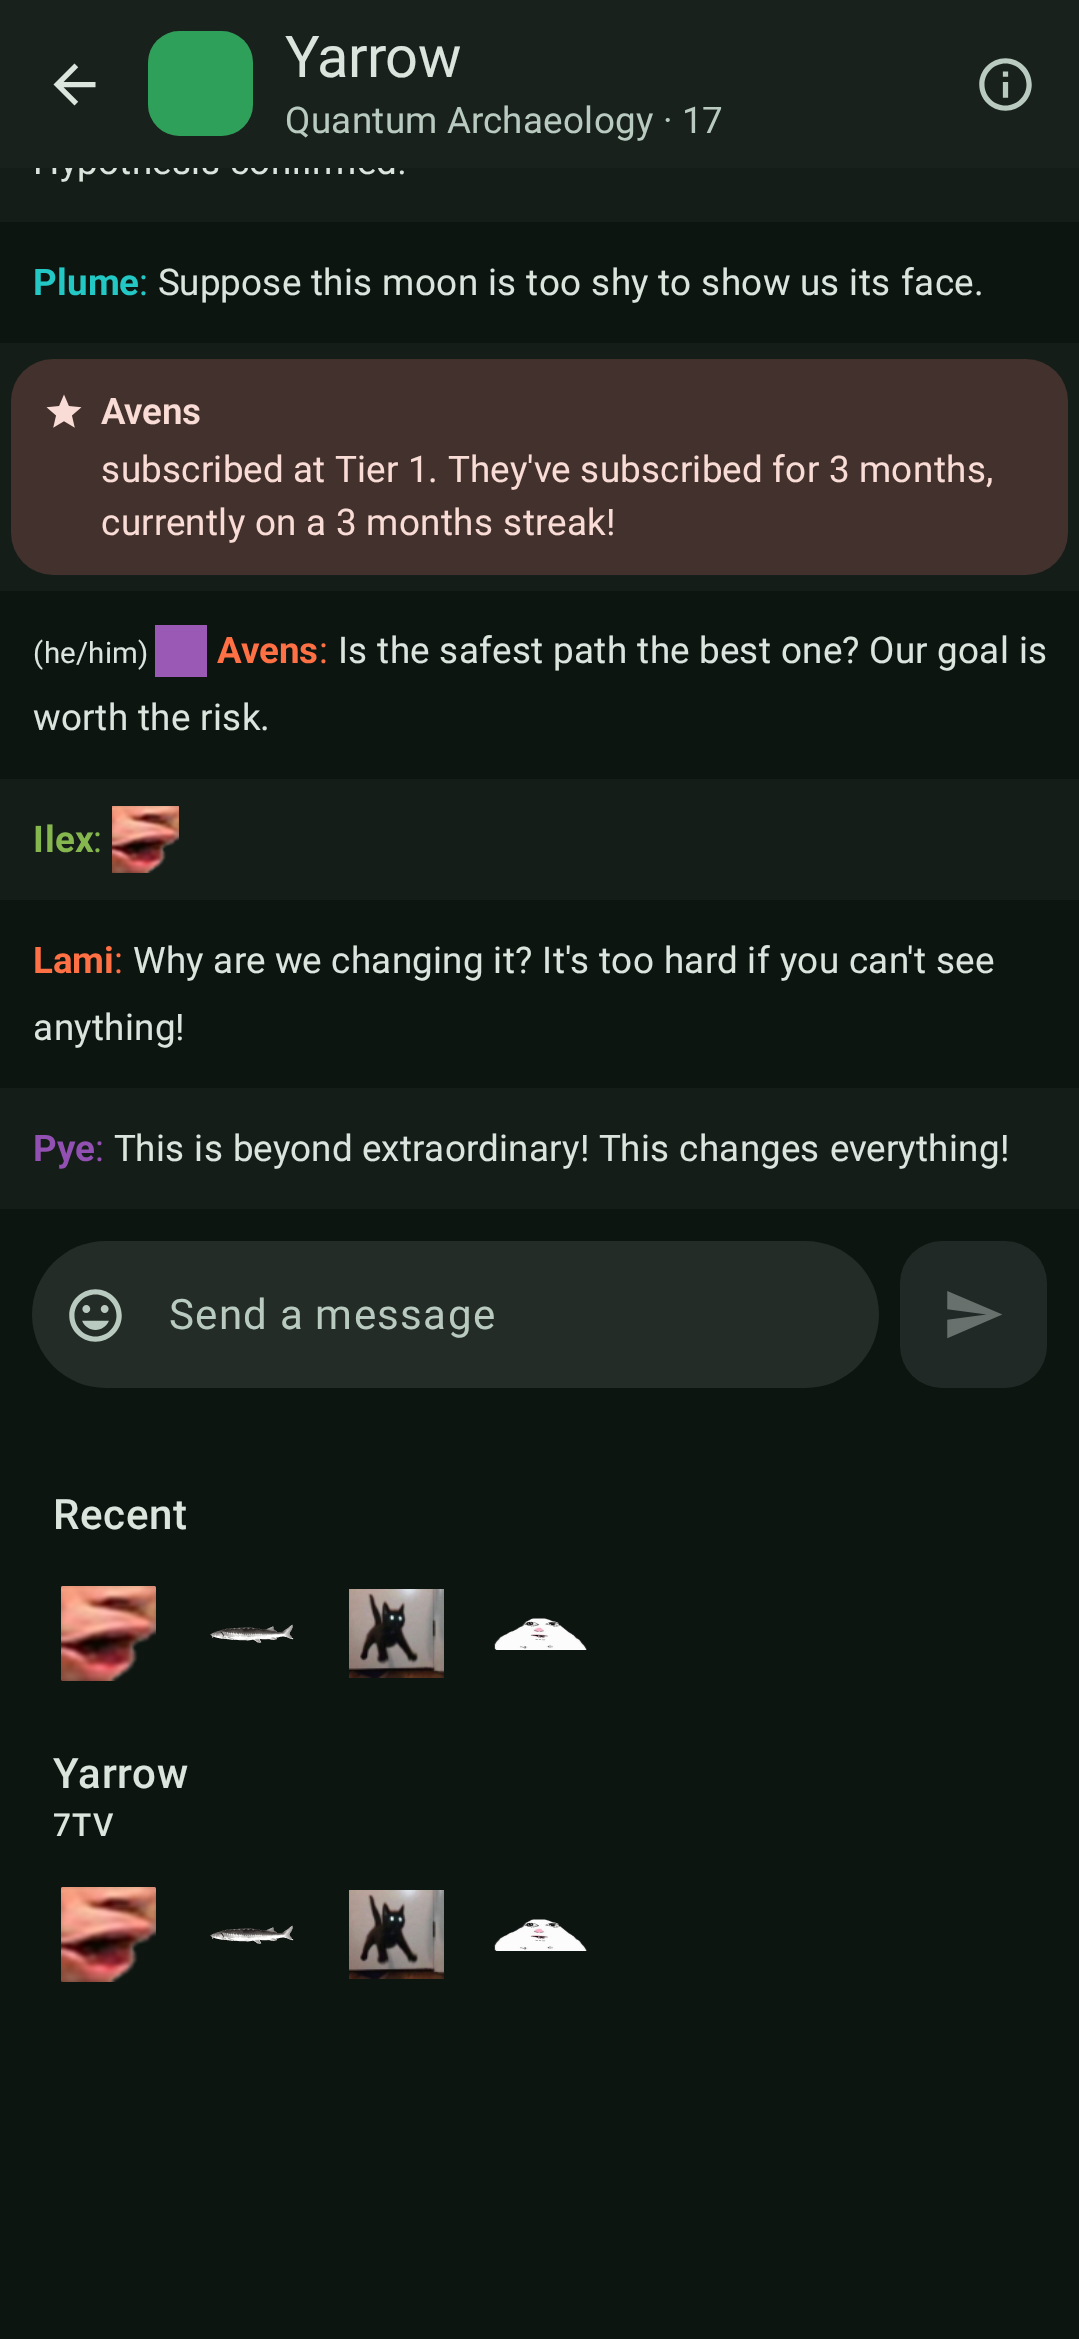
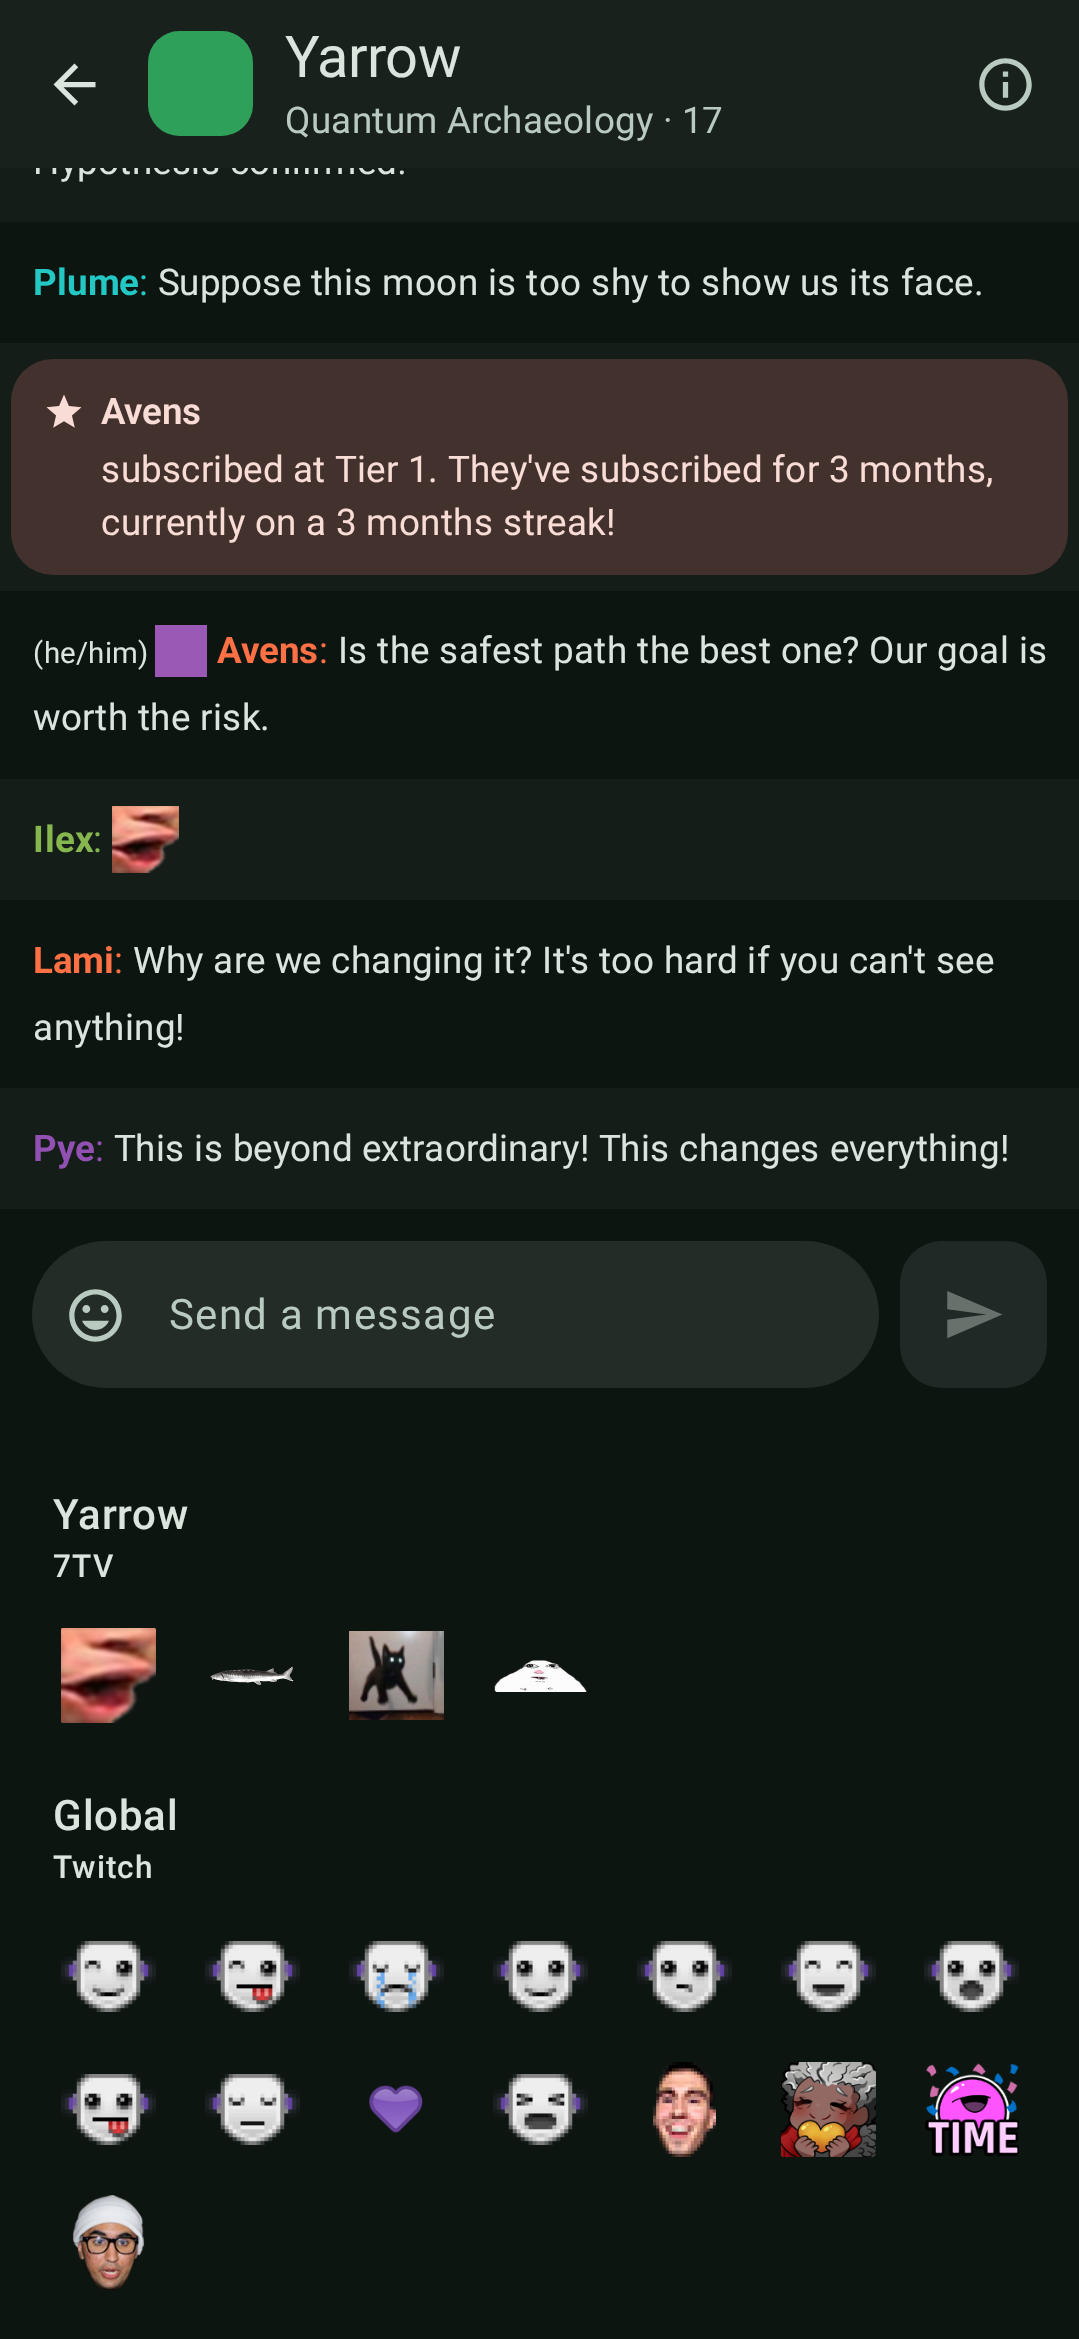
feat: add more demo emotes

diff --git a/app-android/src/screenshotTest/kotlin/fr/outadoc/justchatting/landing/LandingFixtures.kt b/app-android/src/screenshotTest/kotlin/fr/outadoc/justchatting/landing/LandingFixtures.kt
@@ -23,6 +23,8 @@ import fr.outadoc.justchatting.feature.timeline.domain.model.UserStream
 import fr.outadoc.justchatting.feature.timeline.presentation.OngoingScheduleSegment
 import fr.outadoc.justchatting.feature.timeline.presentation.ScheduleDay
 import fr.outadoc.justchatting.shared.internal.Res
+import fr.outadoc.justchatting.shared.internal.chat_source_stv
+import fr.outadoc.justchatting.shared.internal.chat_source_twitch
 import fr.outadoc.justchatting.shared.internal.chat_sub_header_withDurationAndStreak
 import fr.outadoc.justchatting.shared.internal.chat_sub_tier1
 import fr.outadoc.justchatting.shared.internal.months
@@ -147,14 +149,43 @@ internal object LandingFixtures {
 
     val recentEmotes: List<Emote> = listOf(pog, joel, eek, o)
 
-    val pickableEmotes: ImmutableList<EmoteSetItem> =
-        persistentListOf(
-            EmoteSetItem.Header(title = "Yarrow".desc(), source = "7TV".desc()),
-            EmoteSetItem.Emote(pog),
-            EmoteSetItem.Emote(joel),
-            EmoteSetItem.Emote(eek),
-            EmoteSetItem.Emote(o),
+    private fun twitchEmote(
+        name: String,
+        file: String,
+        ratio: Float = 1f,
+    ) = Emote(name = name, urls = EmoteUrls(url = drawable("demo_emote_twitch_$file")), ratio = ratio)
+
+    // The first global Twitch emotes, like in the demo mode.
+    private val globalEmotes: List<Emote> =
+        listOf(
+            twitchEmote(";)", "winky", ratio = 72f / 54f),
+            twitchEmote(";P", "winky_tongue", ratio = 72f / 54f),
+            twitchEmote(":(", "frown", ratio = 72f / 54f),
+            twitchEmote(":)", "smile", ratio = 72f / 54f),
+            twitchEmote(":/", "slant", ratio = 72f / 54f),
+            twitchEmote(":D", "grin", ratio = 72f / 54f),
+            twitchEmote(":O", "surprised", ratio = 72f / 54f),
+            twitchEmote(":P", "tongue", ratio = 72f / 54f),
+            twitchEmote(":z", "zipped", ratio = 72f / 54f),
+            twitchEmote("<3", "heart"),
+            twitchEmote(">(", "angry", ratio = 72f / 54f),
+            twitchEmote("4Head", "4head", ratio = 60f / 90f),
+            twitchEmote("AmbessaLove", "ambessalove"),
+            twitchEmote("AndTime", "andtime"),
+            twitchEmote("ANELE", "anele"),
         )
+
+    val pickableEmotes: ImmutableList<EmoteSetItem> =
+        (
+            listOf(
+                EmoteSetItem.Header(title = "Yarrow".desc(), source = Res.string.chat_source_stv.desc()),
+                EmoteSetItem.Emote(pog),
+                EmoteSetItem.Emote(joel),
+                EmoteSetItem.Emote(eek),
+                EmoteSetItem.Emote(o),
+                EmoteSetItem.Header(title = "Global".desc(), source = Res.string.chat_source_twitch.desc()),
+            ) + globalEmotes.map { emote -> EmoteSetItem.Emote(emote) }
+        ).toPersistentList()
 
     private val channelBadges: PersistentList<TwitchBadge> =
         persistentListOf(
@@ -279,6 +310,7 @@ internal object LandingFixtures {
     fun chatting(
         userStream: UserStream = yarrowStream,
         chatMessages: PersistentList<ChatListItem.Message> = this.chatMessages,
+        recentEmotes: List<Emote> = this.recentEmotes,
     ) = ChatViewModel.State.Chatting(
         user = userStream.user,
         appUser = appUser,

diff --git a/shared/src/commonMain/kotlin/fr/outadoc/justchatting/feature/demo/data/DemoData.kt b/shared/src/commonMain/kotlin/fr/outadoc/justchatting/feature/demo/data/DemoData.kt
@@ -270,6 +270,33 @@ internal object DemoData {
 
     val setEmotes: List<Emote> = listOf(joelEmote, eekEmote, pogEmote, oEmote)
 
+    /** The first global Twitch emotes, bundled as static assets. `ratio` mirrors each source image's width/height. */
+    val globalEmotes: List<Emote>
+        get() =
+            listOf(
+                twitchEmote(";)", "winky", ratio = 72f / 54f),
+                twitchEmote(";P", "winky_tongue", ratio = 72f / 54f),
+                twitchEmote(":(", "frown", ratio = 72f / 54f),
+                twitchEmote(":)", "smile", ratio = 72f / 54f),
+                twitchEmote(":/", "slant", ratio = 72f / 54f),
+                twitchEmote(":D", "grin", ratio = 72f / 54f),
+                twitchEmote(":O", "surprised", ratio = 72f / 54f),
+                twitchEmote(":P", "tongue", ratio = 72f / 54f),
+                twitchEmote(":z", "zipped", ratio = 72f / 54f),
+                twitchEmote("<3", "heart"),
+                twitchEmote(">(", "angry", ratio = 72f / 54f),
+                twitchEmote("4Head", "4head", ratio = 60f / 90f),
+                twitchEmote("AmbessaLove", "ambessalove"),
+                twitchEmote("AndTime", "andtime"),
+                twitchEmote("ANELE", "anele"),
+            )
+
+    private fun twitchEmote(
+        name: String,
+        file: String,
+        ratio: Float = 1f,
+    ) = Emote(name = name, urls = EmoteUrls(url = drawableUri("demo_emote_twitch_$file")), ratio = ratio)
+
     /** Fixed so the follow-up [ChatEvent.Command.ClearMessage] entry can target the exact same message. */
     private const val REMOVED_MESSAGE_ID = "demo-removed-message"
 

diff --git a/app-android/src/screenshotTest/kotlin/fr/outadoc/justchatting/landing/LandingScreenshotTest.kt b/app-android/src/screenshotTest/kotlin/fr/outadoc/justchatting/landing/LandingScreenshotTest.kt
@@ -26,6 +26,7 @@ import fr.outadoc.justchatting.feature.chat.presentation.ChatViewModel
 import fr.outadoc.justchatting.feature.chat.presentation.ui.ChannelChatScreenContent
 import fr.outadoc.justchatting.feature.chat.presentation.ui.ChatInput
 import fr.outadoc.justchatting.feature.chat.presentation.ui.ChatMessage
+import fr.outadoc.justchatting.feature.emotes.domain.model.Emote
 import fr.outadoc.justchatting.feature.shared.presentation.Screen
 import fr.outadoc.justchatting.feature.shared.presentation.ui.DetailPaneCard
 import fr.outadoc.justchatting.feature.shared.presentation.ui.MainNavigation
@@ -127,6 +128,8 @@ internal fun LandingCustomEmotesScreenshotTest() {
         userStream = LandingFixtures.yarrowStream,
         seedColor = LandingFixtures.yarrowSeed,
         isEmotePickerOpen = true,
+        // The recent emotes would only repeat the channel's.
+        recentEmotes = emptyList(),
     )
 }
 
@@ -207,10 +210,11 @@ private fun ChannelChat(
     seedColor: Color,
     inputState: ChatViewModel.InputState = ChatViewModel.InputState(),
     isEmotePickerOpen: Boolean = false,
+    recentEmotes: List<Emote> = LandingFixtures.recentEmotes,
 ) {
     LandingTheme(seedColor = seedColor) {
         ChannelChatScreenContent(
-            state = LandingFixtures.chatting(userStream = userStream),
+            state = LandingFixtures.chatting(userStream = userStream, recentEmotes = recentEmotes),
             inputState = inputState,
             isEmotePickerOpen = isEmotePickerOpen,
             showBackButton = true,

diff --git a/shared/src/commonMain/kotlin/fr/outadoc/justchatting/feature/demo/data/DemoEmoteListSource.kt b/shared/src/commonMain/kotlin/fr/outadoc/justchatting/feature/demo/data/DemoEmoteListSource.kt
@@ -2,6 +2,8 @@ package fr.outadoc.justchatting.feature.demo.data
 
 import fr.outadoc.justchatting.feature.emotes.domain.EmoteListSource
 import fr.outadoc.justchatting.feature.emotes.domain.model.EmoteSetItem
+import fr.outadoc.justchatting.shared.internal.Res
+import fr.outadoc.justchatting.shared.internal.chat_source_twitch
 import fr.outadoc.justchatting.utils.core.flatListOf
 import fr.outadoc.justchatting.utils.resources.desc
 
@@ -15,6 +17,10 @@ internal class DemoEmoteListSource : EmoteListSource<List<EmoteSetItem>> {
             flatListOf(
                 EmoteSetItem.Header(title = "Demo".desc(), source = null),
                 DemoData.setEmotes.map { emote -> EmoteSetItem.Emote(emote) },
-            ),
+            ) +
+                flatListOf(
+                    EmoteSetItem.Header(title = null, source = Res.string.chat_source_twitch.desc()),
+                    DemoData.globalEmotes.map { emote -> EmoteSetItem.Emote(emote) },
+                ),
         )
 }
